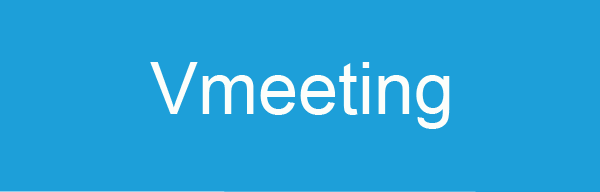
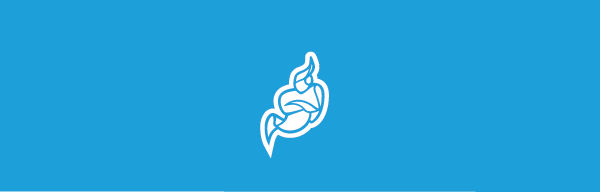
Revert "提交vmeeting版本"
This reverts commit 11646735caa918e488b74d3fda0f3f491cb69583.

Changed region(s): [[0.24, 0.25, 0.75, 0.8125]]

diff --git a/app/features/settings/components/SettingsDrawer.js b/app/features/settings/components/SettingsDrawer.js
@@ -92,7 +92,7 @@ class SettingsDrawer extends Component<Props, *> {
     render() {
         return (
             <AkCustomDrawer
-                backIcon = { <ArrowLeft label = '返回' /> }
+                backIcon = { <ArrowLeft label = 'Back' /> }
                 isOpen = { this.props.isOpen }
                 onBackButton = { this._onBackButton }
                 primaryIcon = { <Logo /> } >
@@ -107,7 +107,7 @@ class SettingsDrawer extends Component<Props, *> {
                             name = 'name-setting'>
                             <form onSubmit = { this._onNameFormSubmit }>
                                 <FieldText
-                                    label = '姓名'
+                                    label = 'Name'
                                     onBlur = { this._onNameBlur }
                                     shouldFitContainer = { true }
                                     type = 'text'
@@ -118,17 +118,17 @@ class SettingsDrawer extends Component<Props, *> {
                             name = 'email-setting'>
                             <form onSubmit = { this._onEmailFormSubmit }>
                                 <FieldText
-                                    label = '邮箱'
+                                    label = 'Email'
                                     onBlur = { this._onEmailBlur }
                                     shouldFitContainer = { true }
                                     type = 'text'
                                     value = { this.props._email } />
                             </form>
                         </SpotlightTarget>
-                        {/* <SpotlightTarget
+                        <SpotlightTarget
                             name = 'server-setting'>
                             <ServerURLField />
-                        </SpotlightTarget> */}
+                        </SpotlightTarget>
                         <SpotlightTarget
                             name = 'start-muted-toggles'>
                             <StartMutedToggles />

diff --git a/app/features/welcome/components/Welcome.js b/app/features/welcome/components/Welcome.js
@@ -81,7 +81,7 @@ class Welcome extends Component<Props, State> {
      * @returns {void}
      */
     componentDidMount() {
-        // this.props.dispatch(startOnboarding('welcome-page'));
+        this.props.dispatch(startOnboarding('welcome-page'));
     }
 
     /**
@@ -96,7 +96,7 @@ class Welcome extends Component<Props, State> {
                     <Wrapper>
                         { this._renderHeader() }
                         { this._renderBody() }
-                        {/* <Onboarding section = 'welcome-page' /> */}
+                        <Onboarding section = 'welcome-page' />
                     </Wrapper>
                 </AtlasKitThemeProvider>
             </Page>
@@ -200,7 +200,7 @@ class Welcome extends Component<Props, State> {
                             isInvalid = { locationError }
                             isLabelHidden = { true }
                             onChange = { this._onURLChange }
-                            placeholder = '输入会议室名称'
+                            placeholder = 'Enter a name for your conference'
                             shouldFitContainer = { true }
                             type = 'text'
                             value = { this.state.url } />
@@ -210,7 +210,7 @@ class Welcome extends Component<Props, State> {
                     appearance = 'primary'
                     onClick = { this._onJoin }
                     type = 'button'>
-                    进入
+                    GO
                 </Button>
             </Header>
         );

diff --git a/app/features/navbar/components/HelpButton.js b/app/features/navbar/components/HelpButton.js
@@ -90,18 +90,18 @@ export default class HelpButton extends Component< *, State> {
                 onOpenChange = { this._onOpenChange }
                 position = 'right bottom'
                 trigger = { <HelpIcon /> }>
-                <Group heading = '帮助'>
-                    {/* <Item onActivate = { this._onTermsClick }>
+                <Group heading = 'Help'>
+                    <Item onActivate = { this._onTermsClick }>
                         Terms
-                    </Item> */}
-                    {/* <Item onActivate = { this._onPrivacyClick }>
+                    </Item>
+                    <Item onActivate = { this._onPrivacyClick }>
                         Privacy
-                    </Item> */}
-                    {/* <Item onActivate = { this._onSendFeedbackClick }>
+                    </Item>
+                    <Item onActivate = { this._onSendFeedbackClick }>
                         Send Feedback
-                    </Item> */}
+                    </Item>
                     <Item onActivate = { this._onAboutClick }>
-                        关于Vmeeting
+                        About
                     </Item>
                 </Group>
             </Droplist>

diff --git a/app/features/config/index.js b/app/features/config/index.js
@@ -3,30 +3,30 @@ export default {
     /**
      * The URL with extra information about the app / service.
      */
-    aboutURL: 'https://www.vmeeting.top',
+    aboutURL: 'https://jitsi.org/what-is-jitsi/',
 
     /**
      * Application name.
      */
-    appName: 'Vmeeting',
+    appName: 'Jitsi Meet',
 
     /**
      * The default server URL of Jitsi Meet Deployment that will be used.
      */
-    defaultServerURL: 'https://i.vmeeting.top',
+    defaultServerURL: 'https://meet.jit.si',
 
     /**
      * URL to send feedback.
      */
-    feedbackURL: 'mailto:support@vmeeting.top',
+    feedbackURL: 'mailto:support@jitsi.org',
 
     /**
      * The URL of Privacy Policy Page.
      */
-    privacyPolicyURL: 'https://www.vmeeting.top',
+    privacyPolicyURL: 'https://jitsi.org/meet/privacy',
 
     /**
      * The URL of Terms and Conditions Page.
      */
-    termsAndConditionsURL: 'https://www.vmeeting.top'
+    termsAndConditionsURL: 'https://jitsi.org/meet/terms'
 };

diff --git a/app/features/settings/components/StartMutedToggles.js b/app/features/settings/components/StartMutedToggles.js
@@ -88,12 +88,12 @@ class StartMutedToggles extends Component<Props, State> {
             <TogglesContainer>
                 <ToggleWithLabel
                     isDefaultChecked = { this.props._startWithAudioMuted }
-                    label = '自动静音'
+                    label = 'Start with Audio muted'
                     onChange = { this._onAudioToggleChange }
                     value = { this.state.startWithAudioMuted } />
                 <ToggleWithLabel
                     isDefaultChecked = { this.props._startWithVideoMuted }
-                    label = '关闭摄像头'
+                    label = 'Start with Video muted'
                     onChange = { this._onVideoToggleChange }
                     value = { this.state.startWithVideoMuted } />
             </TogglesContainer>

diff --git a/app/features/onboarding/components/OnboardingModal.js b/app/features/onboarding/components/OnboardingModal.js
@@ -48,16 +48,16 @@ class OnboardingModal extends Component<Props, *> {
                 actions = { [
                     {
                         onClick: this._next,
-                        text: '观看教程'
+                        text: 'Start Tour'
                     },
                     {
                         onClick: this._skip,
-                        text: '跳过教程'
+                        text: 'Skip'
                     }
                 ] }
-                heading = { `欢迎使用 ${config.appName}` }
+                heading = { `Welcome to ${config.appName}` }
                 image = { OnboardingModalImage } >
-                <p> 首次使用向导</p>
+                <p> Let us show you around!</p>
             </Modal>
         );
     }

diff --git a/app/features/settings/components/ServerURLField.js b/app/features/settings/components/ServerURLField.js
@@ -68,10 +68,10 @@ class ServerURLField extends Component<Props, State> {
             <form onSubmit = { this._onServerURLSubmit }>
                 <FieldTextStateless
                     invalidMessage
-                        = { '服务器ip不可用' }
+                        = { 'Invalid Server URL or external API not enabled' }
                     isInvalid = { !this.state.isValid }
                     isValidationHidden = { this.state.isValid }
-                    label = '服务器地址'
+                    label = 'Server URL'
                     onBlur = { this._onServerURLSubmit }
                     onChange = { this._onServerURLChange }
                     placeholder = { config.defaultServerURL }

diff --git a/app/features/onboarding/components/ServerSettingSpotlight.js b/app/features/onboarding/components/ServerSettingSpotlight.js
@@ -42,12 +42,13 @@ class ServerSettingSpotlight extends Component<Props, *> {
                 actions = { [
                     {
                         onClick: this._next,
-                        text: '下一步'
+                        text: 'Next'
                     }
                 ] }
                 dialogPlacement = 'left top'
                 target = { 'server-setting' } >
-                设置服务器，推荐不要配置，直接使用默认服务器。
+                This will be the server where your conferences will take place.
+                You can use your own, but you don't need to!
             </Spotlight>
         );
     }

diff --git a/app/features/onboarding/components/EmailSettingSpotlight.js b/app/features/onboarding/components/EmailSettingSpotlight.js
@@ -42,12 +42,13 @@ class EmailSettingSpotlight extends Component<Props, *> {
                 actions = { [
                     {
                         onClick: this._next,
-                        text: '下一步'
+                        text: 'Next'
                     }
                 ] }
                 dialogPlacement = 'left top'
                 target = { 'email-setting' } >
-                设置您的邮箱地址。
+                The email you enter here will be part of your user profile and
+                it will be used to display your stored avatar in gravatar.com .
             </Spotlight>
         );
     }

diff --git a/app/features/onboarding/components/StartMutedTogglesSpotlight.js b/app/features/onboarding/components/StartMutedTogglesSpotlight.js
@@ -44,12 +44,13 @@ class StartMutedTogglesSpotlight extends Component<Props, *> {
                 actions = { [
                     {
                         onClick: this._next,
-                        text: '下一步'
+                        text: 'Next'
                     }
                 ] }
                 dialogPlacement = 'left top'
                 target = { 'start-muted-toggles' } >
-                设置静音配置。
+                You can toggle if you want to start with your audio or video
+                muted here. This will be applied to all conferences.
             </Spotlight>
         );
     }

diff --git a/app/features/onboarding/components/NameSettingSpotlight.js b/app/features/onboarding/components/NameSettingSpotlight.js
@@ -42,12 +42,13 @@ class NameSettingSpotlight extends Component<Props, *> {
                 actions = { [
                     {
                         onClick: this._next,
-                        text: '下一步'
+                        text: 'Next'
                     }
                 ] }
                 dialogPlacement = 'left top'
                 target = { 'name-setting' } >
-                设置您的名字。
+                This will be your display name, others will see you with this
+                name.
             </Spotlight>
         );
     }

diff --git a/app/features/onboarding/components/SettingsDrawerSpotlight.js b/app/features/onboarding/components/SettingsDrawerSpotlight.js
@@ -45,7 +45,7 @@ class SettingsDrawerSpotlight extends Component<Props, *> {
                 dialogPlacement = 'right top'
                 target = { 'settings-drawer-button' }
                 targetOnClick = { this._next }>
-                点击打开设置页面.
+                Click here to open the settings drawer.
             </Spotlight>
         );
     }
